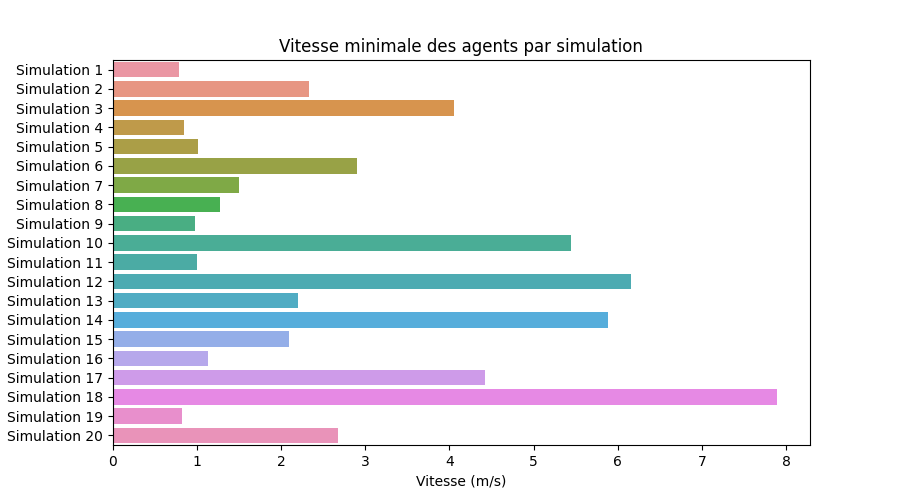
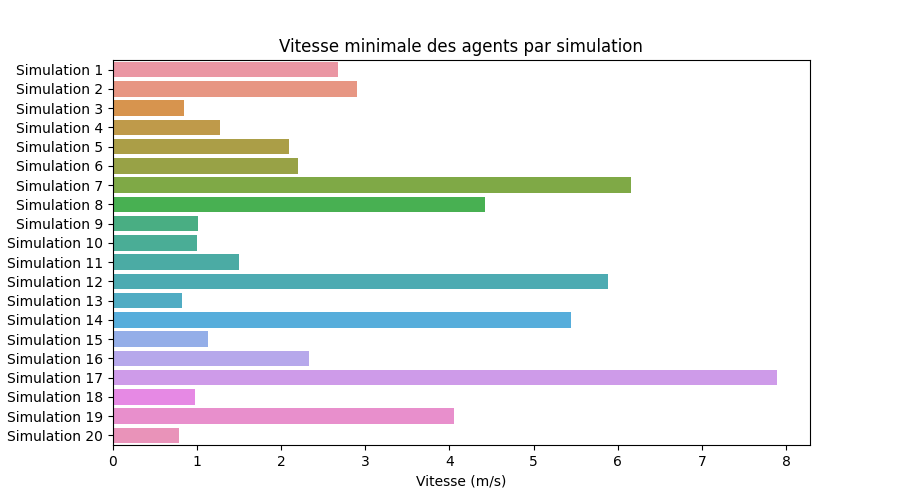
fin mémoire

diff --git a/generate_graphs.py b/generate_graphs.py
@@ -8,32 +8,41 @@ import numpy as np
 
 data = []
 
-files = glob.glob('results/*_agents_data.json')
+files = sorted([x for x in glob.glob('results/*_agents_data.json')])
 
 df = pd.DataFrame(columns=["time_by_distance", "time_wo_stop", "simulation_id"])
 raw = ""
 cpt = 0
 for file in files:
+    print(file)
     nom_simulation = "simulation_" + str(cpt+1)
     with open(file, 'r') as f:
         raw = f.read()
         data_kilian = json.loads(raw)
         data.append({"simulation": json.loads(raw)})
         for index, agent in enumerate([a for a in data_kilian if 'Agent' in a]):
-            df.loc[cpt * 60 + index] = [data_kilian[agent]["time_by_distance"], (data_kilian[agent]["time_by_distance"] - data_kilian[agent]["time_wo_stop"]) / data_kilian[agent]["time_wo_stop"], nom_simulation]
+            df.loc[cpt * 60 + index] = [data_kilian[agent]["time_by_distance"], (data_kilian[agent]["time_by_distance"] - data_kilian[agent]["time_wo_stop"]) , nom_simulation]
     cpt += 1
         
 def mean(data:list):
     return sum(data)/len(data)
 
 def sort_func(x):
-    return int(str(x).split('_')[1])
+    return int(str(x).split(' ')[1])
 
 dataf = df.groupby("simulation_id").mean()
 print(dataf)
 
-x = dataf["time_by_distance"]
-y = dataf["time_wo_stop"]
+x = []
+y = []
+for i in range(20):
+    x.append("Simulation " + str(i+1))
+    y.append(1 / dataf["time_wo_stop"]["simulation_" + str(i+1)])
+
+sns.barplot(x=y, y=x, orient='h')
+plt.title("Moyenne des écart par rapport à un attendu par simulation")
+plt.xlabel("Moyenne des écart par rapport à l'attendu")
+plt.show()
 
 
 # x = []
@@ -46,38 +55,42 @@ y = dataf["time_wo_stop"]
 # # x = [d['mean_time_by_distance'] for d in refined_data]
 # # y = [d['mean_time_wo_stop'] for d in refined_data]
 
-sns.scatterplot(data=df, x="time_by_distance", y="time_wo_stop", hue="simulation_id")
-plt.plot([0.1, 1.15], [0, 10], color='red', linestyle='-', linewidth=2)
+df["m_v"] = 1 / df["time_by_distance"]
+
+sns.scatterplot(data=df, x="m_v", y="time_wo_stop", hue="simulation_id")
+plt.xlabel("Vitesse moyenne")
+plt.ylabel("Ecart des temps de trajet attendu")
+plt.title("Ecart des temps de trajet attendu en fonction de la vitesse moyenne par agent")
 plt.show()
+exit(0)
+# df["best_way"] = df["time_by_distance"] == df["time_wo_stop"]
 
-df["best_way"] = df["time_by_distance"] == df["time_wo_stop"]
+# df2 = pd.DataFrame(index=df["simulation_id"].unique())
+# df2["agent_best"] = df[df["best_way"] == 1].groupby("simulation_id").count()["best_way"]
+# df2["agent_not_best"] = df[df["best_way"] == 0].groupby("simulation_id").count()["best_way"]
+# print(df2)
 
-df2 = pd.DataFrame(index=df["simulation_id"].unique())
-df2["agent_best"] = df[df["best_way"] == 1].groupby("simulation_id").count()["best_way"]
-df2["agent_not_best"] = df[df["best_way"] == 0].groupby("simulation_id").count()["best_way"]
-print(df2)
+# d = {"agent_did_best": df2["agent_best"], "pct_agent_did_best": (df2["agent_best"] / (df2["agent_best"] + df2["agent_not_best"]) * 100)}
+# dataf = pd.DataFrame(d)
+# dataf.to_csv("results/stats_agent_did_best.csv")
+# # print(dataf)
 
-d = {"agent_did_best": df2["agent_best"], "pct_agent_did_best": (df2["agent_best"] / (df2["agent_best"] + df2["agent_not_best"]) * 100)}
-dataf = pd.DataFrame(d)
-dataf.to_csv("results/stats_agent_did_best.csv")
-# print(dataf)
+# c = {
+#     "agent_did_best": df2["agent_best"],
+#     "agent_did_not_best": df2["agent_not_best"]
+# }
 
-c = {
-    "agent_did_best": df2["agent_best"],
-    "agent_did_not_best": df2["agent_not_best"]
-}
+# x = tuple(df2.index)
 
-x = tuple(df2.index)
+# fig, ax = plt.subplots()
+# bottom = np.zeros(20)
 
-fig, ax = plt.subplots()
-bottom = np.zeros(20)
+# for i, row in c.items():
+#     p = ax.bar(x, np.array(row), 0.5, label=i, bottom=bottom)
+#     bottom += row
 
-for i, row in c.items():
-    p = ax.bar(x, np.array(row), 0.5, label=i, bottom=bottom)
-    bottom += row
-
-ax.set_title("Nombre d'agents ayant réalisé le temps attendu par simulation")
-plt.xticks(rotation = 45)
+# ax.set_title("Nombre d'agents ayant réalisé le temps attendu par simulation")
+# plt.xticks(rotation = 45)
 
 # plt.show()
 
@@ -163,26 +176,26 @@ plt.rcParams["figure.figsize"] = (9,5)
 # sns.scatterplot(x=x, y=y)
 # plt.show()
 
+print(data)
+x = []
+y = []
+for simulation in data:
+    x += ["Simulation %i" % (len(x)+1)]
+    total_speed = 0
+    nb_agents = 0
+    for info in simulation['simulation']:
+        if 'Agent' in info:
+            nb_agents += 1
+            total_speed += simulation['simulation'][info]["total_distance"] / simulation['simulation'][info]["total_time"]
+    y.append(total_speed/nb_agents)
 
-# x = []
-# y = []
-# for simulation in data:
-#     x += ["Simulation %i" % (len(x)+1)]
-#     total_speed = 0
-#     nb_agents = 0
-#     for info in simulation['simulation']:
-#         if 'Agent' in info:
-#             nb_agents += 1
-#             total_speed += simulation['simulation'][info]["total_distance"] / simulation['simulation'][info]["total_time"]
-#     y.append(total_speed/nb_agents)
+print(x)
+print(y)
 
-# print(x)
-# print(y)
-
-# sns.barplot(x=y, y=x, orient='h')
-# plt.xlabel("Vitesse (m/s)")
-# plt.title("Vitesse moyenne des agents par simulation")
-# plt.show()
+sns.barplot(x=y, y=x, orient='h')
+plt.xlabel("Vitesse (m/s)")
+plt.title("Vitesse moyenne des agents par simulation")
+plt.show()
 
 
 x = []
@@ -197,10 +210,6 @@ for simulation in data:
                 min_speed = speed
     y.append(min_speed)
 
-plt.barh(x, y)
-plt.xlabel("Vitesse (m/s)")
-plt.title("Vitesse moyenne des agents par simulation")
-# plt.show()
 print(x)
 print(y)
 
